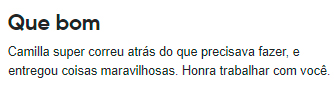
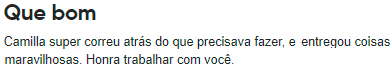
Ajusta img feedback e corrige alt das imagens

Changed region(s): [[0.0, 0.507, 1.0, 0.7042], [0.0, 0.7324, 0.988, 0.9014], [0.0, 0.0563, 0.2994, 0.3662]]

diff --git a/index.html b/index.html
@@ -185,7 +185,7 @@
                     <div class="card mx-3 mx-md-0">
                         <img class="card-img-top p-1"
                             src="./images/img-helpgestao.png"
-                            alt="Site-Bora-dev">
+                            alt="Site-Help-Gestao">
                         <div class="card-body">
                             <h5 class="card-title">Landing Page Help Gestão</h5>
                             <p class="card-text">Landing Page criada com a
@@ -207,8 +207,7 @@
                 <div class="col-sm-10 col-md-6 mx-auto mb-3">
                     <div class="card mx-3 mx-md-0">
                         <img class="card-img-top p-1"
-                            src="./images/img-report.png" alt="Card image
-                            cap">
+                            src="./images/img-report.png" alt="site-report">
                         <div class="card-body">
                             <h5 class="card-title">Report Show Me The Leads</h5>
                             <p class="card-text">Projeto criado com o intuito de
@@ -228,8 +227,7 @@
                 <div class="col-sm-10 col-md-6 mx-auto mb-3">
                     <div class="card mx-3 mx-md-0">
                         <img class="card-img-top p-1"
-                            src="./images/img-calculadora.png" alt="Card image
-                            cap">
+                            src="./images/img-calculadora.png" alt="site-calculadora-churrasco">
                         <div class="card-body">
                             <h5 class="card-title">Calculadora de Churrasco</h5>
                             <p class="card-text">Site responsivo criado com o
@@ -249,7 +247,7 @@
             </div>
         </div>
         <div>
-            <img src="./images/separador-2.png" alt="" class="w-100 mt-5">
+            <img src="./images/separador-2.png" alt="spacer" class="w-100 mt-5">
         </div>
         <div class="container mb-5" id="feedbacks">
             <h2 class="text-white font-weight-bold text-center">Feedbacks
@@ -262,13 +260,13 @@
                 <div class="col-12 col-md-8 mb-2">
                     <div class="card px-2 py-3">
                         <img class="card-img-top p-1"
-                            src="./images/feedback-4.jpg" alt="feedback1">
+                            src="./images/feedback-4.jpg" alt="feedback">
                     </div>
                 </div>
                 <div class="col-12 col-sm-8 col-md-4 mb-2">
-                    <div class="card p-2">
+                    <div class="card p-2 py-md-4">
                         <img class="card-img-top p-1"
-                            src="./images/feedback-2.jpg" alt="feedback1">
+                            src="./images/feedback-2.jpg" alt="feedback">
                     </div>
                 </div>
             </div>
@@ -276,13 +274,13 @@
                 <div class="col-12 col-sm-8 col-md-5 mb-2">
                     <div class="card p-2">
                         <img class="card-img-top p-1"
-                            src="./images/feedback-3.jpg" alt="feedback1">
+                            src="./images/feedback-3.jpg" alt="feedback">
                     </div>
                 </div>
                 <div class="col-12 col-sm-10 col-md-7 mb-2">
                     <div class="card p-2">
                         <img class="card-img-top p-1"
-                            src="./images/feedback-1.jpg" alt="feedback1">
+                            src="./images/feedback-1.jpg" alt="feedback">
                     </div>
                 </div>
             </div>
